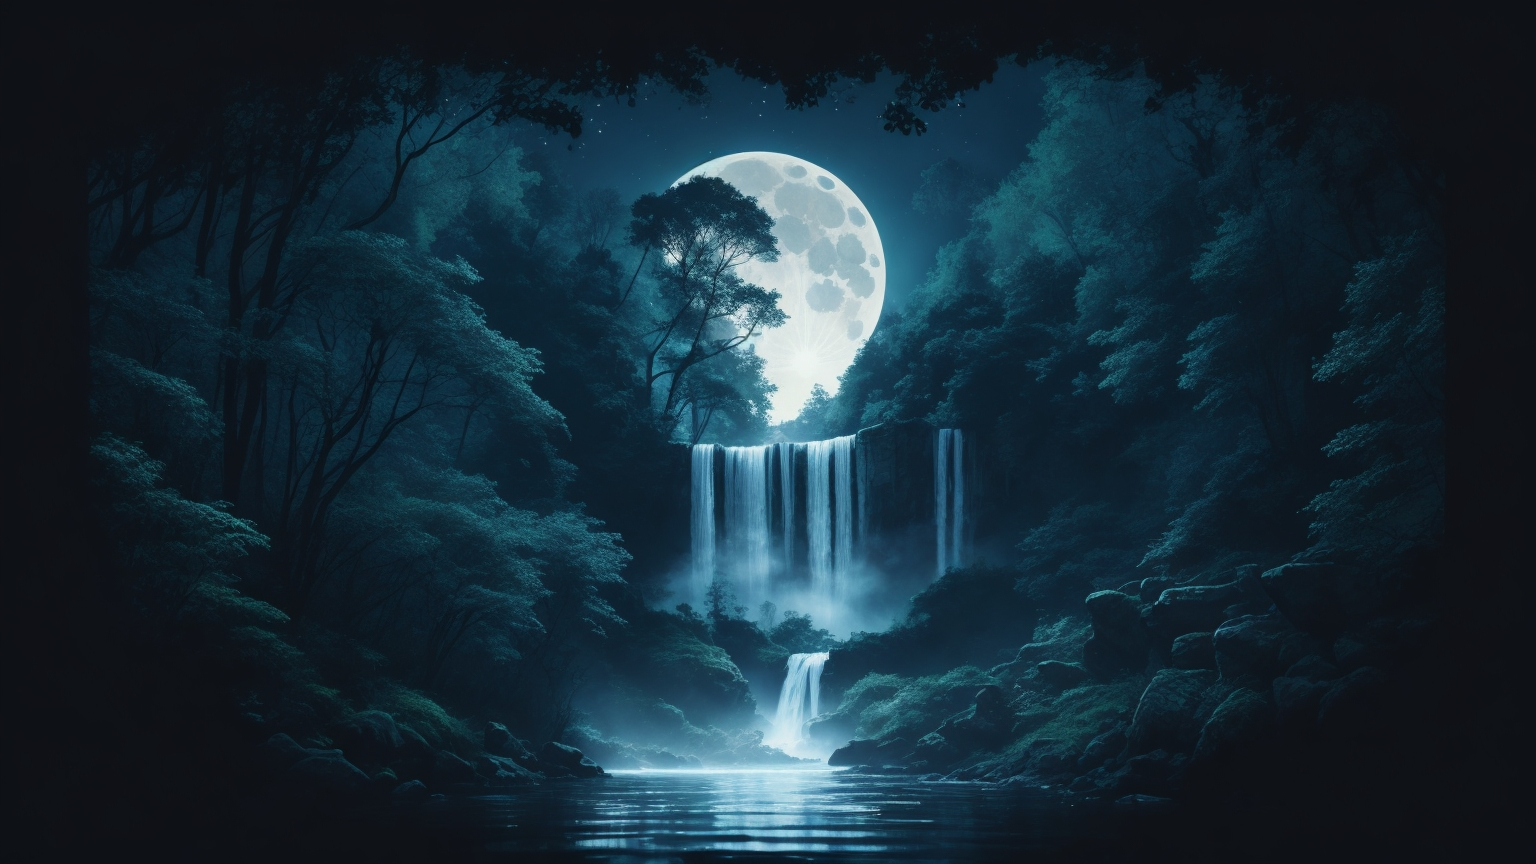
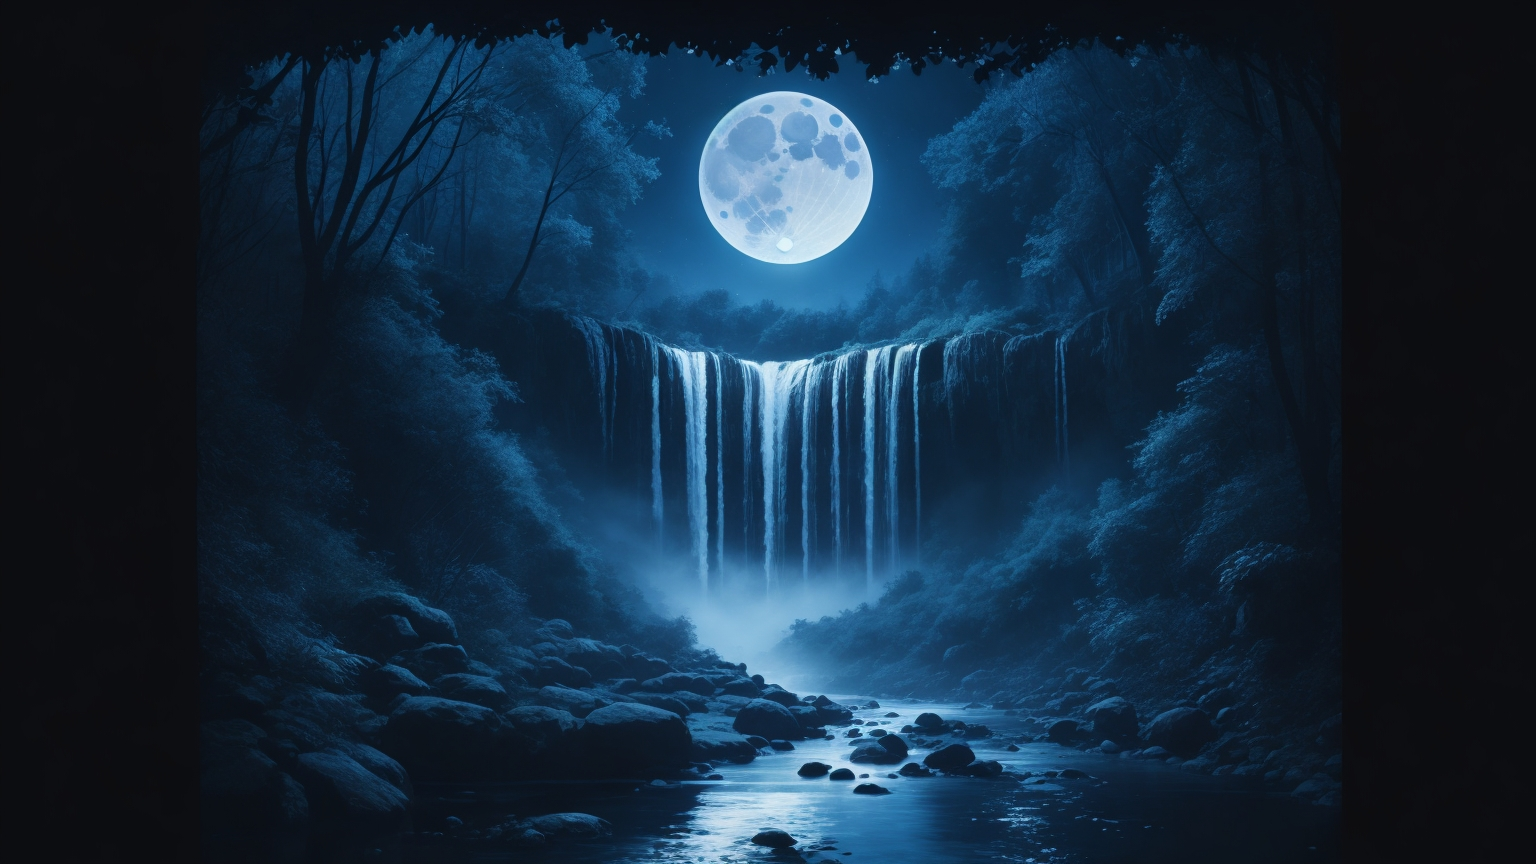
testing variations of background imgs

diff --git a/src/App.css b/src/App.css
@@ -260,7 +260,7 @@ nav.navbar .navbar-toggler[aria-expanded="true"] .navbar-toggler-icon {
 /************ Banner Css ************/
 .banner {
   margin-top: 0;
-  padding: 260px 0;
+  padding: 260px 0 150px 0;
   background-image: url('./assets/img/banner-bg4.jpg');
   background-position: top center;
   background-size: cover;
@@ -340,7 +340,17 @@ nav.navbar .navbar-toggler[aria-expanded="true"] .navbar-toggler-icon {
 .skill {
   padding: 100px 0;
   position: relative;
+  /* background: linear-gradient(90.21deg, #6c9dbd -5.91%,  #151c27 111.58%); */
 }
+
+.contactImg g {
+  fill: #FFFFFF;
+ }
+
+/* .home__icon path {
+stroke: #e5e5e5;
+stroke-width: 10px;
+} */
 
 .skill-bx {
   background: #151515;
@@ -437,7 +447,8 @@ nav.navbar .navbar-toggler[aria-expanded="true"] .navbar-toggler-icon {
     position: absolute;
     width: 0;
     height: 100%;
-    background: linear-gradient(90.21deg, #AA367C -5.91%, #4A2FBD 111.58%);
+    /* background: linear-gradient(90.21deg, #AA367C -5.91%, #4A2FBD 111.58%); */
+    background: linear-gradient(90.21deg, #6c9dbd -5.91%,  #151c27 111.58%);
     top: 0;
     left: 0;
     z-index: -1;
@@ -476,7 +487,7 @@ nav.navbar .navbar-toggler[aria-expanded="true"] .navbar-toggler-icon {
 
 .proj-imgbx::before {
   content: "";
-  background: linear-gradient(90.21deg, #AA367C -5.91%, #4A2FBD 111.58%);
+  background: linear-gradient(90.21deg, #6c9dbd -5.91%,  #151c27 111.58%);
   opacity: 0.85;
   position: absolute;
   width: 100%;
@@ -529,7 +540,10 @@ nav.navbar .navbar-toggler[aria-expanded="true"] .navbar-toggler-icon {
 
 /************ Projects Css ************/
 .contact {
-  background: linear-gradient(90.21deg, #AA367C -5.91%, #4A2FBD 111.58%);
+  /* background: linear-gradient(90.21deg, #193956 +5.91%, #151c27 100.58%); */
+  /* background: linear-gradient(90.21deg, #AA367C -5.91%, #4A2FBD 111.58%); */
+  background-color: #151c27;
+  /* background-color: #151922; */
   padding: 60px 0 200px 0;
 }
 

diff --git a/src/components/Contact.js b/src/components/Contact.js
@@ -1,6 +1,6 @@
 import { useState } from "react"
 import { Container, Row, Col } from "react-bootstrap";
-import contactImg from "../assets/img/contact-img3.jpg";
+import contactImg from "../assets/img/contact-img2.jpg";
 
 export const Contact = () => {
     const formInitialDetails = {
